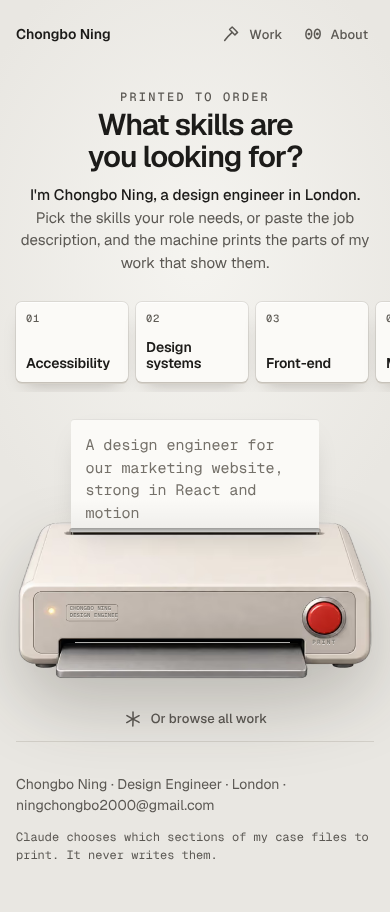
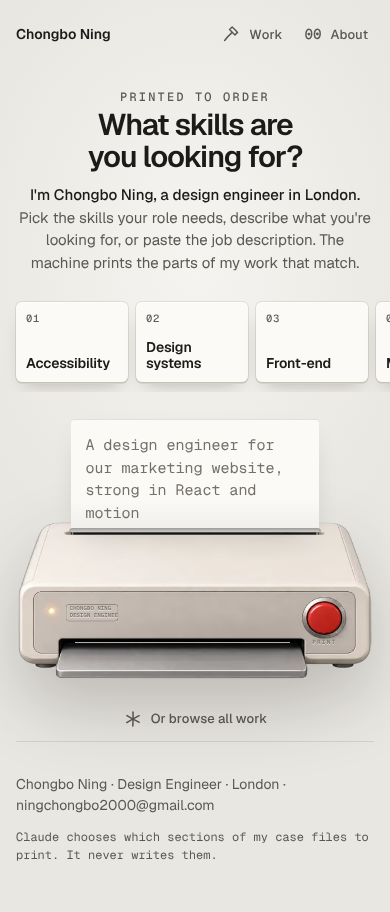
The sheet grows with its chips and the machine moves down to stay clear of the cards; intro offers describing the role
Claude-Session: https://claude.ai/code/session_01VM6HvcgBStETyshZ4tZF7t

Changed region(s): [[0.0615, 0.2149, 0.9538, 0.307]]

diff --git a/src/components/PrintedToOrder.tsx b/src/components/PrintedToOrder.tsx
@@ -84,6 +84,8 @@ export function PrintedToOrder({ cards, media, labelledBy }: Props) {
   const titleRef = useRef<HTMLHeadingElement>(null);
   const deckRef = useRef<HTMLDivElement>(null);
   const machineRef = useRef<HTMLDivElement>(null);
+  const stageRef = useRef<HTMLDivElement>(null);
+  const paperRef = useRef<HTMLDivElement>(null);
   const sheetRefs = useRef<(HTMLElement | null)[]>([]);
 
   const deckCards = useMemo(() => result?.cards ?? [], [result]);
@@ -115,6 +117,16 @@ export function PrintedToOrder({ cards, media, labelledBy }: Props) {
     timer = setTimeout(tick, 0);
     return () => clearTimeout(timer);
   }, [anyPicked]);
+
+  // The sheet grows with its chips; the machine moves down to keep clear of the cards above.
+  useEffect(() => {
+    const paper = paperRef.current;
+    const stage = stageRef.current;
+    if (!paper || !stage || typeof ResizeObserver === "undefined") return;
+    const ro = new ResizeObserver(() => stage.style.setProperty("--pm", `${paper.offsetHeight}px`));
+    ro.observe(paper);
+    return () => ro.disconnect();
+  }, []);
 
   // ---------- skills cards ----------
   const toggle = (id: string, el?: HTMLElement | null) => {
@@ -397,7 +409,7 @@ export function PrintedToOrder({ cards, media, labelledBy }: Props) {
         </ul>
       </section>
 
-      <div className="stage">
+      <div className="stage" ref={stageRef}>
         <div ref={machineRef} className={`machine${ready ? " ready" : ""}`} data-state={working ? "working" : ready ? "ready" : "idle"}>
           <form
             ref={formRef}
@@ -410,7 +422,7 @@ export function PrintedToOrder({ cards, media, labelledBy }: Props) {
             aria-labelledby={labelledBy}
             onSubmit={onSubmit}
           >
-            <div className="paper">
+            <div className="paper" ref={paperRef}>
               <div className={`field${brief || focused ? " on" : ""}`} hidden={working}>
                 <label htmlFor="brief" className="sr-only">
                   Describe the role or paste a job description.

diff --git a/src/app/printer.css b/src/app/printer.css
@@ -121,7 +121,9 @@
   position: relative;
   width: clamp(440px, calc((100svh - 500px) * 2.2), 680px);
   max-width: 100%;
-  margin: calc(var(--ph) + var(--s5)) auto 0;
+  /* --pm is the paper's measured height (set from the client), so a taller sheet pushes the machine down instead of covering the cards */
+  margin: calc(var(--pm, var(--ph)) + var(--s5)) auto 0;
+  transition: margin-top 0.5s var(--ease);
 }
 .machine {
   position: relative;
@@ -261,16 +263,16 @@
   left: 15.5%;
   width: 69%;
   bottom: calc(100% - 7.7%);
-  height: var(--ph);
+  min-height: var(--ph);
   z-index: 3;
   margin: 0;
-  transition: height 0.5s var(--ease);
+  transition: min-height 0.5s var(--ease);
 }
 .paperbox[data-size="focus"] {
-  height: calc(var(--ph) + 20px);
+  min-height: calc(var(--ph) + 20px);
 }
 .paperbox[data-size="full"] {
-  height: calc(var(--ph) + 40px);
+  min-height: calc(var(--ph) + 40px);
 }
 .paperbox::after {
   content: "";
@@ -283,10 +285,11 @@
   background: linear-gradient(180deg, rgba(0, 0, 0, 0.35), rgba(0, 0, 0, 0));
   pointer-events: none;
 }
+/* The sheet grows upwards with what is on it (chips, steps); the field keeps at least three lines. */
 .paper {
   --focus: var(--paper-ink);
-  position: absolute;
-  inset: 0;
+  position: relative;
+  min-height: inherit;
   background: var(--paper);
   color: var(--paper-ink);
   border-radius: 3px 3px 0 0;
@@ -303,12 +306,13 @@
 .field {
   position: relative;
   flex: 1;
-  min-height: 0;
+  min-height: 4.6em;
 }
 .field textarea {
   display: block;
   width: 100%;
   height: 100%;
+  min-height: 4.6em;
   resize: none;
   border: 0;
   background: transparent;
@@ -884,7 +888,7 @@
   .stage {
     --ph: 112px;
     width: 100%;
-    margin-top: calc(var(--ph) + var(--s4));
+    margin-top: calc(var(--pm, var(--ph)) + var(--s4));
   }
   .paper {
     padding: 14px 14px 10px;

diff --git a/src/app/page.tsx b/src/app/page.tsx
@@ -39,8 +39,8 @@ export default function Home() {
           What skills are you looking for?
         </h1>
         <p className="home-intro">
-          <b>I&apos;m {profile.name}, a design engineer in {profile.location}.</b> Pick the skills your role needs, or paste the job
-          description, and the machine prints the parts of my work that show them.
+          <b>I&apos;m {profile.name}, a design engineer in {profile.location}.</b> Pick the skills your role needs, describe what
+          you&apos;re looking for, or paste the job description. The machine prints the parts of my work that match.
         </p>
         <PrintedToOrder cards={buildCardIndex()} media={sheetMedia()} labelledBy="home-title" />
       </main>
